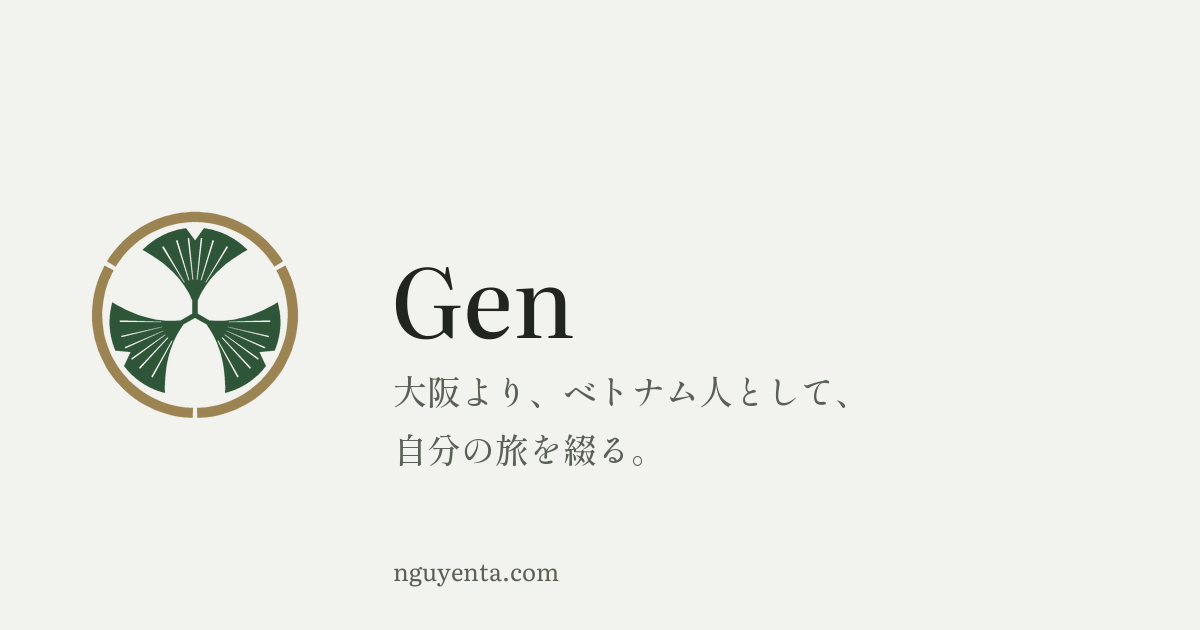
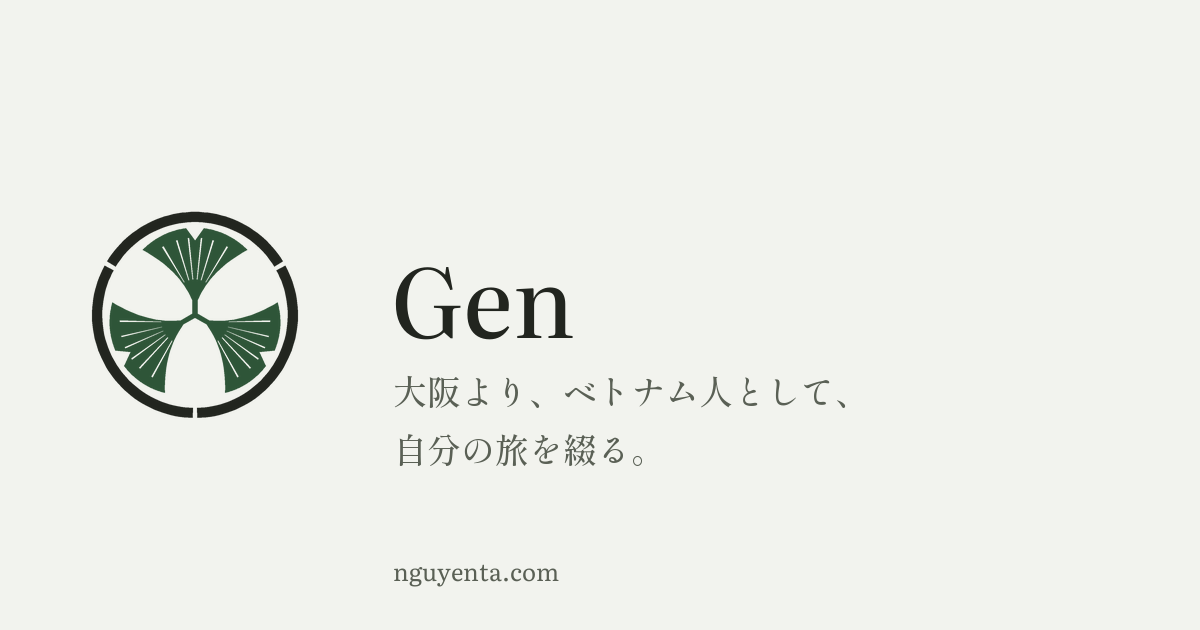
feat(brand): vòng tre của kamon đổi sang màu mực
Anh chọn mực trong bốn phương án vòng tre đã đưa hồi trước (vàng, mực, tre
khô, xanh nhạt). Trước đó là tre khô 枯竹 #9c8352.

Dùng 墨 #22251f chứ không phải đen tuyệt đối: 墨 có chút xanh rêu nên nét
đọc ra như mực mài trên giấy, không như mực in. Lá giữ nguyên 常磐 #2e5538.
Giao diện tối lật lại: giấy tối thì nét mực sáng (#daddd3).

Favicon, apple-touch-icon và ảnh Open Graph mang màu sẵn vì không đọc được
CSS của trang, nên đã chạy lại marks.py và raster.py. Bỏ token --karetake
vì không còn chỗ nào dùng.

Lời mô tả kamon ở trang Về blog này sửa theo, hai ngôn ngữ.

diff --git a/tools/brand/marks.py b/tools/brand/marks.py
@@ -245,12 +245,12 @@ def svg(body: str, label: str, classes: str = "") -> str:
     )
 
 
-# Màu của kamon (vòng, lá): vòng màu tre khô 枯竹 như vòng tre đan, lá xanh đậm
-# 常磐. Hai màu tách vòng và lá ra khỏi nhau, để ba lá trong vòng tròn không
-# giống biểu tượng phóng xạ. Trên site, màu do CSS tô (main.css: --kamon-ring,
-# --kamon-leaf); favicon không đọc được CSS của trang nên mang màu sẵn, kèm bản
-# cho thanh tab tối.
-KAMON_COLORS = {"light": ("#9c8352", "#2e5538"), "dark": ("#c8b07a", "#8fbf95")}
+# Màu của kamon (vòng, lá): vòng màu mực 墨 như con dấu đóng lên giấy, lá xanh
+# đậm 常磐. Hai màu tách vòng và lá ra khỏi nhau, để ba lá trong vòng tròn
+# không giống biểu tượng phóng xạ. Trên site, màu do CSS tô (main.css:
+# --kamon-ring, --kamon-leaf); favicon không đọc được CSS của trang nên mang
+# màu sẵn, kèm bản cho thanh tab tối — ở đó giấy tối nên nét mực sáng lên.
+KAMON_COLORS = {"light": ("#22251f", "#2e5538"), "dark": ("#daddd3", "#8fbf95")}
 
 
 def favicon() -> str:

diff --git a/README.md b/README.md
@@ -771,6 +771,11 @@ chuột trên web.
 - **Không làm 七十二候.** Claude từng tự đề xuất rồi ghi nhầm là đã duyệt;
   đã gỡ ở commit `402a743`. Đừng đề xuất lại.
 - **Màu nhấn đổi theo 24 tiết khí thì giữ** — cái này có trong "Yêu cầu.md".
+- **Vòng tre của kamon mang màu mực 墨**, lá vẫn xanh đậm 常磐. Anh chọn mực
+  trong bốn phương án đã đưa (vàng, mực, tre khô, xanh nhạt); trước đó là tre
+  khô 枯竹 #9c8352. Đổi màu thì sửa `--kamon-ring` trong main.css VÀ
+  `KAMON_COLORS` trong `tools/brand/marks.py`, rồi chạy lại `marks.py` và
+  `raster.py` (favicon mang màu sẵn vì không đọc được CSS của trang).
 - **Khung có nhãn đề (sidebar, Mục lục, Từ vựng, Ủng hộ) có nền riêng**, màu
   奉書 `--card`: sáng hơn nền trang một nấc chứ KHÔNG trắng tinh. Anh đã xem
   ba phương án (trong suốt / trắng tinh / trắng giấy) và chọn trắng giấy, vì
